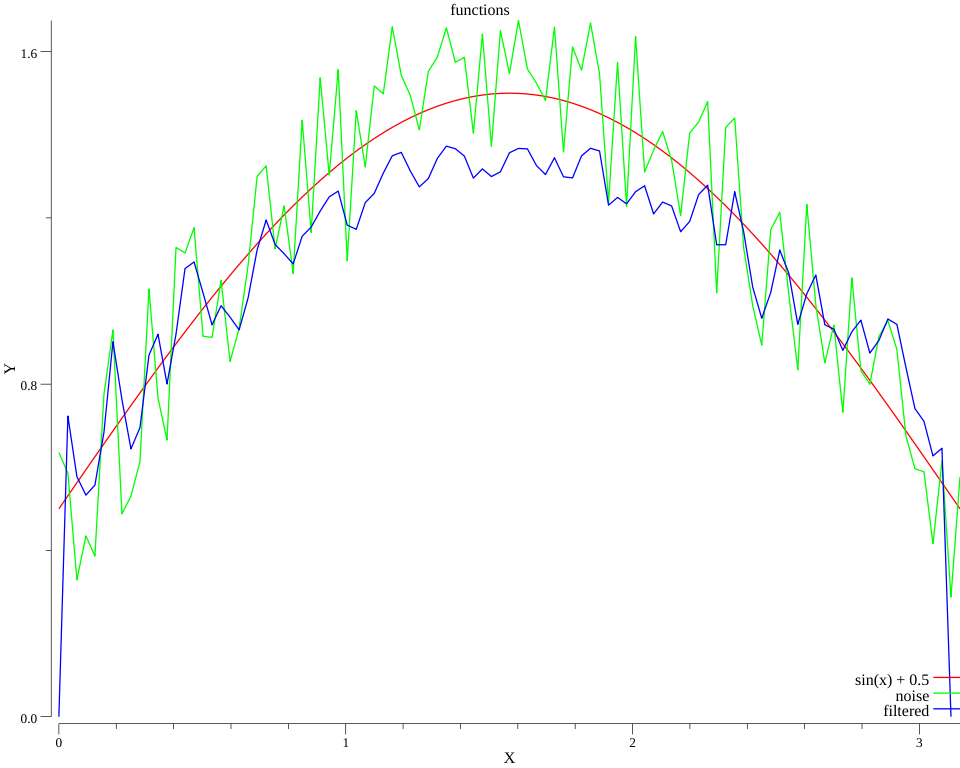
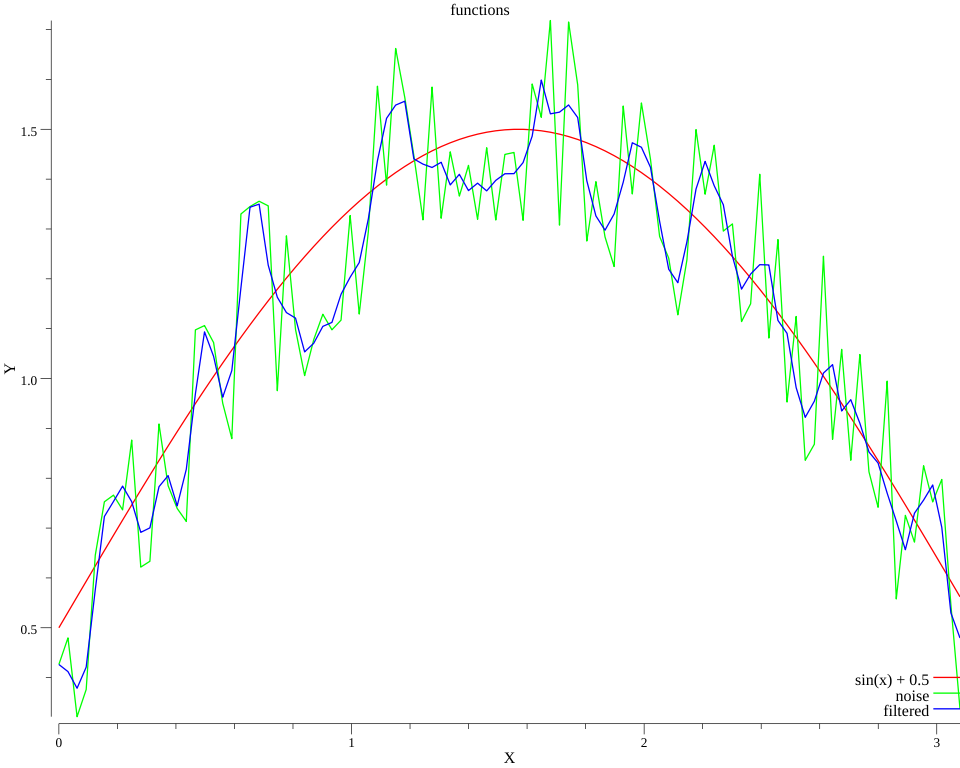
update algorithm

Changed region(s): [[0.0312, 0.0312, 1.0, 0.9375], [0.9062, 0.7188, 0.9375, 0.7812]]

diff --git a/algorithm.go b/algorithm.go
@@ -1,9 +1,10 @@
 package main
 
 import (
+	"fmt"
 	"math"
 	"math/rand"
-	"sort"
+
 	"time"
 )
 
@@ -13,67 +14,103 @@ type minEl struct {
 	W float64
 	D float64
 	alpha []float64
+	yFiltered []float64
 	distance float64
 }
 
-func getMinWeight(inputData map[string]float64, noiseFunc []float64) []float64 {
-	N := math.Log(1 - inputData["prob"])/
-		math.Log(1 - (inputData["eps"]/(inputData["xMax"] - inputData["xMin"])))
-	M := (inputData["r"] - 1) / 2
-	yFilteredPoints := make(map[float64][]float64)
-	minElSlice := make([]minEl, 0)
-	for weight := 0.0; weight <= 1.0; weight += 0.1 {
-		var Jmin float64
-		Jmin = 1000
-		var noisinessMin float64
-		var differencesMin float64
-		var alphaMin []float64
-		for i := 0; i < int(N); i++ {
-			filterFunc := make([]float64, 100)
-			alpha := getAlpha(inputData["r"])
-			for k := M; k < 100 - M; k++ {
-				var multiplication float64
-				multiplication = 1
-				for j := k - M; j < k + M; j++ {
-					multiplication *= math.Pow(noiseFunc[int(j)], alpha[int(j + M + 1 - k)])
-				}
-				filterFunc[int(k)] = multiplication
-			}
-			noisiness := getNoisiness(filterFunc)
-			differences := getDifferences(filterFunc, noiseFunc)
-			J := getJ(weight, noisiness, differences)
-			if J < Jmin {
-				Jmin = J
-				noisinessMin = noisiness
-				differencesMin = differences
-				alphaMin = alpha
-				yFilteredPoints[weight] = filterFunc
-			}
+func coordinateSignal(K float64, input map[string]float64) []float64 {
+	xPoints := make([]float64, int(K))
+	var i float64
+	for i = 0; i < 100; i++ {
+		xPoints[int(i)] = input["xMin"] + (i * (input["xMax"] - input["xMin"]))/K
+	}
+	return xPoints
+}
+
+func getFiltered (input map[string]float64, noiseFunc []float64) minEl {
+	minimal := minEl{
+		distance: 1000,
+	}
+	filtered := make(map[float64]minEl)
+	for lambda := 0.0; lambda <= 1; lambda += 0.1 {
+		filtered[lambda] = getWeights(input, noiseFunc, lambda)
+		fmt.Println("weight: ", lambda)
+		fmt.Println("alpha: ", filtered[lambda].alpha)
+		fmt.Println("W: ", filtered[lambda].W)
+		fmt.Println("D: ", filtered[lambda].D)
+		fmt.Println("dist: ", filtered[lambda].distance)
+		fmt.Println("-------------------------------------------------------------------------------------------------")
+		if minimal.distance > filtered[lambda].distance {
+			minimal = filtered[lambda]
 		}
-		distance := math.Abs(noisinessMin) + math.Abs(differencesMin)
-		minElSlice = append(minElSlice, minEl{weight, Jmin, noisinessMin, differencesMin, alphaMin, distance})
 	}
-	sort.Slice(minElSlice, func(i, j int) bool {
-		return minElSlice[i].distance < minElSlice[j].distance
-	})
-
-	return yFilteredPoints[minElSlice[0].weight]
+	fmt.Println("MINIMAL")
+	fmt.Println("weight: ", minimal.weight)
+	fmt.Println("alpha: ", minimal.alpha)
+	fmt.Println("W: ", minimal.W)
+	fmt.Println("D: ", minimal.D)
+	fmt.Println("dist: ", minimal.distance)
+	return minimal
 }
 
-func getNoisiness(filterFunc []float64) float64 {
-	var sum float64
-	for k := 1; k < 100; k++ {
-		sum += math.Abs(filterFunc[k] - filterFunc[k - 1])
+func getWeights(input map[string]float64, noiseFunc []float64, lambda float64) minEl {
+	N := math.Log(1 - input["P"])/
+		 math.Log(1 - (input["e"]/(input["xMax"] - input["xMin"])))
+	yFiltered := make([]float64, 101)
+	min := minEl{
+		J : 1000.1,
 	}
-	return sum
+	for i := 0; i <= int(N); i++ {
+		alpha := getAlpha(input["r"])
+		yFiltered = filteredSignal(alpha, input["K"], input["r"], noiseFunc)
+		W := getNoisiness(yFiltered, input["K"])
+		D := getDifferences(yFiltered, noiseFunc, input["K"])
+		J := getJ(lambda, min.W, min.D)
+		if min.J > J {
+			min.J = J
+			min.W = W
+			min.D = D
+			min.yFiltered = yFiltered
+			min.alpha = alpha
+			min.weight = lambda
+			min.distance = math.Abs(min.W) + math.Abs(min.D)
+		}
+	}
+	return min
 }
 
-func getDifferences(filterFunc []float64, noiseFunc []float64) float64 {
+func filteredSignal(alpha []float64, K float64, r float64, noiseFunc []float64) []float64 {
+	M := (r - 1)/2
+	yFiltered := make([]float64, int(K) + 1)
+	for k := 0; k <= int(M); k++ {
+		yFiltered[k] = noiseFunc[k]
+		yFiltered[int(K) - k - 1] = noiseFunc[int(K) - k - 1]
+	}
+	var composition float64
+	for k := M; k <= K - M; k++ {
+		composition = 1
+		for j := k - M; j <= k + M; j++ {
+			composition *= math.Pow(noiseFunc[int(j)], alpha[int(j + M - k)])
+		}
+		yFiltered[int(k)] = composition
+	}
+	return yFiltered
+}
+
+func getNoisiness(filterFunc []float64, K float64) float64 {
+	var noisiness float64
+	for k := 1; k < int(K); k++ {
+		noisiness += math.Abs(filterFunc[k] - filterFunc[k - 1])
+	}
+	return noisiness
+}
+
+func getDifferences(filterFunc []float64, noiseFunc []float64, K float64) float64 {
 	var differences float64
-	for k := 0; k < 100; k++ {
+	for k := 0; k < int(K); k++ {
 		differences += math.Abs(filterFunc[k] - noiseFunc[k])
 	}
-	return differences/100
+	return differences/K
 }
 
 func getJ(weight float64, noisiness float64, differences float64) float64 {

diff --git a/main.go b/main.go
@@ -1,33 +1,41 @@
 package main
 
 import (
+	"fmt"
 	"math"
 )
 
 func main() {
-	xPoints := Linspace(0, math.Pi, 101)
-	yPoints := MathFuncPoints(xPoints)
-	yNoisePoints := noiseMathFuncPoints(xPoints)
-
 	inputData := make(map[string]float64)
 	inputData["xMax"] = math.Pi
 	inputData["xMin"] = 0
-	inputData["weightsNum"] = 10
-	inputData["prob"] = 0.95
-	inputData["eps"] = 0.01
+	inputData["K"] = 100
+	inputData["L"] = 10
+	inputData["P"]= 0.95
+	inputData["e"] = 0.01
 	inputData["r"] = 3
 
-	yFiltered := getMinWeight(inputData, yNoisePoints)
+	xPoints := coordinateSignal(101, inputData)
+	yPoints := MathFuncPoints(xPoints)
+	yNoisePoints := noiseMathFuncPoints(xPoints)
 
-	plotting(xPoints, yPoints, 101, "sin(x) + 0.5","functions.png",255, 0, 0)
-	plotting(xPoints, yNoisePoints, 101, "noise","functions.png", 0, 255, 0)
-	plotting(xPoints, yFiltered, 101, "filtered","functions.png", 0, 0, 255)
+	filtered := getFiltered(inputData, yNoisePoints)
+
+	plotting(xPoints, yPoints, 100, "sin(x) + 0.5","functions.png",255, 0, 0)
+	plotting(xPoints, yNoisePoints, 100, "noise","functions.png", 0, 255, 0)
+	plotting(xPoints, filtered.yFiltered, 100, "filtered","functions.png", 0, 0, 255)
+
+	fmt.Println("\n-------------r = 5-------------")
 
 	inputData["r"] = 5
 
-	yFiltered = getMinWeight(inputData, yNoisePoints)
+	xPoints = coordinateSignal(101, inputData)
+	yPoints = MathFuncPoints(xPoints)
+	yNoisePoints = noiseMathFuncPoints(xPoints)
 
-	plotting(xPoints, yPoints, 101, "sin(x) + 0.5","functions5.png", 255, 0, 0)
-	plotting(xPoints, yNoisePoints, 101, "noise","functions5.png", 0, 255, 0)
-	plotting(xPoints, yFiltered, 101, "filtered","functions5.png", 0, 0, 255)
+	filtered = getFiltered(inputData, yNoisePoints)
+
+	plotting5(xPoints, yPoints, 100, "sin(x) + 0.5","functions5.png",255, 0, 0)
+	plotting5(xPoints, yNoisePoints, 100, "noise","functions5.png", 0, 255, 0)
+	plotting5(xPoints, filtered.yFiltered, 100, "filtered","functions5.png", 0, 0, 255)
 }

diff --git a/plotting.go b/plotting.go
@@ -9,6 +9,7 @@ import (
 
 var (
 	p, _ = plot.New()
+	p5, _ = plot.New()
 )
 
 func plotting(xPoints []float64, yPoints []float64, k int, name string, filename string,
@@ -16,6 +17,7 @@ func plotting(xPoints []float64, yPoints []float64, k int, name string, filename
 	p.Title.Text = "functions"
 	p.X.Label.Text = "X"
 	p.Y.Label.Text = "Y"
+
 
 
 	l, err := plotter.NewLine(funcPoints(xPoints, yPoints, k))
@@ -28,6 +30,28 @@ func plotting(xPoints []float64, yPoints []float64, k int, name string, filename
 	p.Legend.Add(name, l)
 	// Save the plot to a PNG file.
 	if err := p.Save(10*vg.Inch, 8*vg.Inch, filename); err != nil {
+		panic(err)
+	}
+}
+
+func plotting5(xPoints []float64, yPoints []float64, k int, name string, filename string,
+	r uint8, g uint8, b uint8) {
+	p5.Title.Text = "functions"
+	p5.X.Label.Text = "X"
+	p5.Y.Label.Text = "Y"
+
+
+
+	l, err := plotter.NewLine(funcPoints(xPoints, yPoints, k))
+	if err != nil {
+		panic(err)
+	}
+	l.LineStyle.Color = color.RGBA{r, g, b, 255}
+
+	p5.Add(l)
+	p5.Legend.Add(name, l)
+	// Save the plot to a PNG file.
+	if err := p5.Save(10*vg.Inch, 8*vg.Inch, filename); err != nil {
 		panic(err)
 	}
 }
